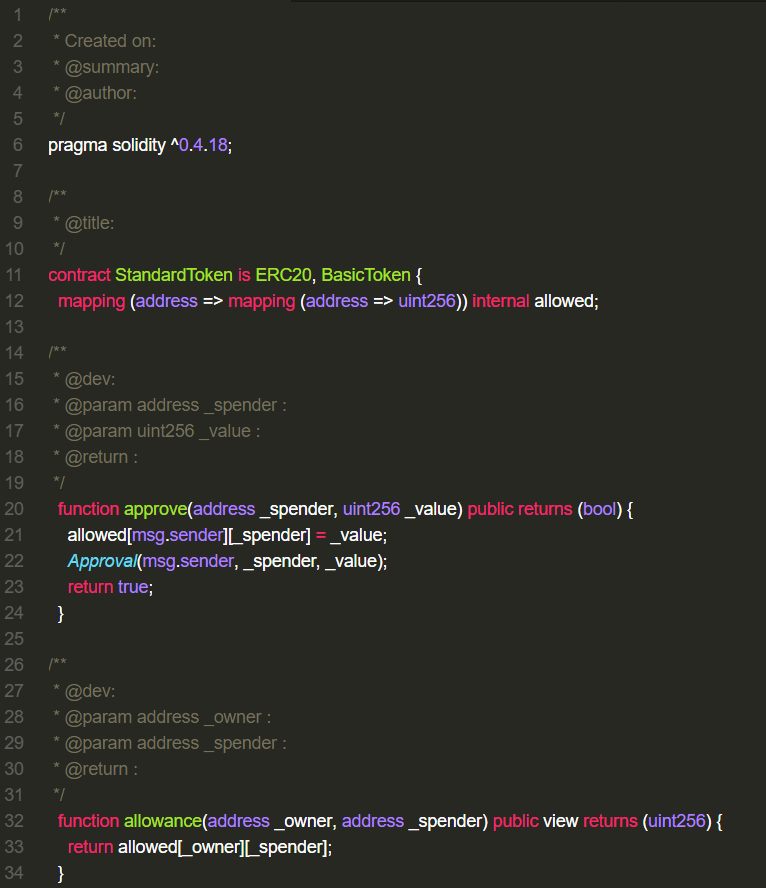
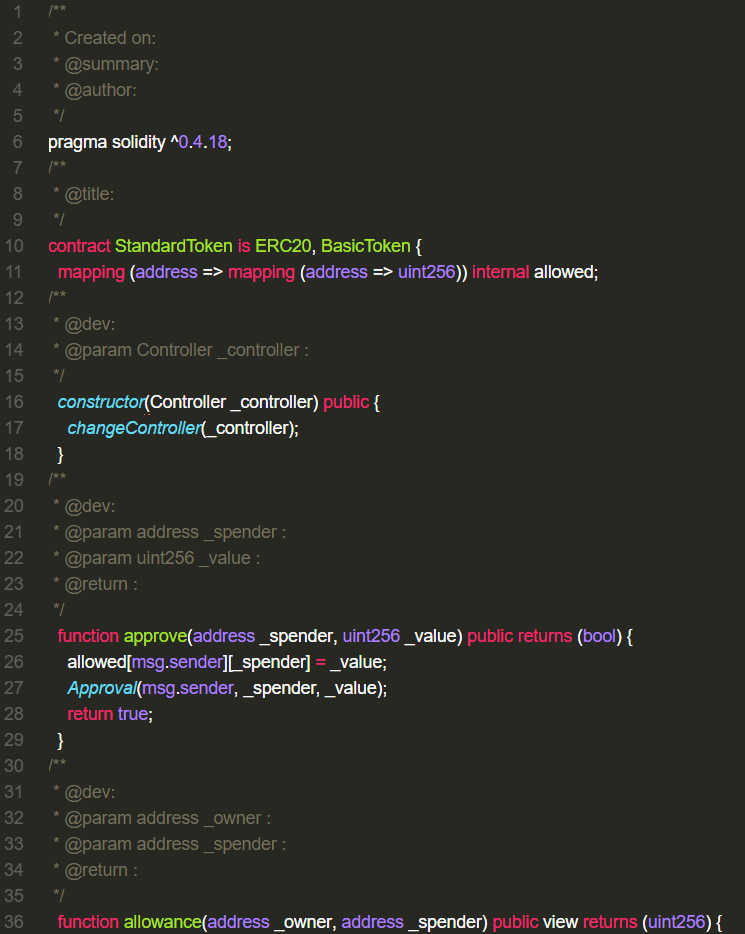
add support to solidity 0.4.23 constructor. Version 1.1.3

diff --git a/lib/docstring-generator-solidity.js b/lib/docstring-generator-solidity.js
@@ -18,6 +18,7 @@ export default {
     }));
   },
 
+//main entrance
 run() {
   typeOfDocstring = {
   pragma :
@@ -36,9 +37,8 @@ run() {
   this.reload();
 
   for (var i = 0; i < this.words.length; i++) {
-    // console.log('i = ' + i);
     let result = this.lookForString(this.words[i]);
-    console.log('result = ' + this.lookForString(this.words[i]));
+    // console.log('result = ' + this.lookForString(this.words[i]));
     if (result != null  && !this.hasDocstring(this.words[i-1])) {
         if (result == 'function'){
           typeOfDocstring.function = this.generateFuncDocstring(this.words[i]);
@@ -50,6 +50,7 @@ run() {
   };
 },
 
+//generate docstring for function and constructor.
 generateFuncDocstring(line){
   let inputs = '';            //To set docstring about inputs params
   let returns = (line.indexOf('returns')>=0)?  ' * @return : \n' : '' ; //To set docstring about returned variable
@@ -57,7 +58,6 @@ generateFuncDocstring(line){
   line = line.substring(line.indexOf('(')+1, line.indexOf(')') );
   params = line.split(',');
   for (var i = 0; i < params.length; i++) { //to generate inputs string
-    console.log('params type = ' + params[i].split(' ')[0]);
     inputs += ' * @param ' +  this.trim(params[i]).split(' ')[0] + ' ' + this.trim(params[i]).split(' ')[1] + ' : ' + ' \n';
   }
   return  functionDocstring =
@@ -68,24 +68,30 @@ generateFuncDocstring(line){
   +  ' */ \n';
 },
 
+//reload global variables after a docstring been added.
 reload() {
   this.editor = atom.workspace.getActiveTextEditor();
   this.textBuffer = this.editor.getBuffer();
   this.words = this.editor.getText().split('\n');
 },
 
+//verify whether a line has docstring already.
 hasDocstring(line){
   if (typeof line == 'undefined'){ return false;}
   return line.indexOf('*/')>=0
 },
 
+//Check a line to look for keywords: pragma, contract, function and constructor. And return the keyword for adding corresponding docstring.
 lookForString(line) {
   line = this.trim(line);
+  if(line.indexOf('constructor(') >= 0){console.log('line = ' + line);}
   if(line.indexOf('pragma ') >= 0){
     return 'pragma';
   }else if(line.indexOf('contract ') >= 0){
     return 'contract';
-  }else if(line.indexOf('function ') >= 0){
+  }else if(line.indexOf('function ') >=0
+  || line.indexOf('constructor') >= 0
+){
     return  'function';
   }else {
     return null;
